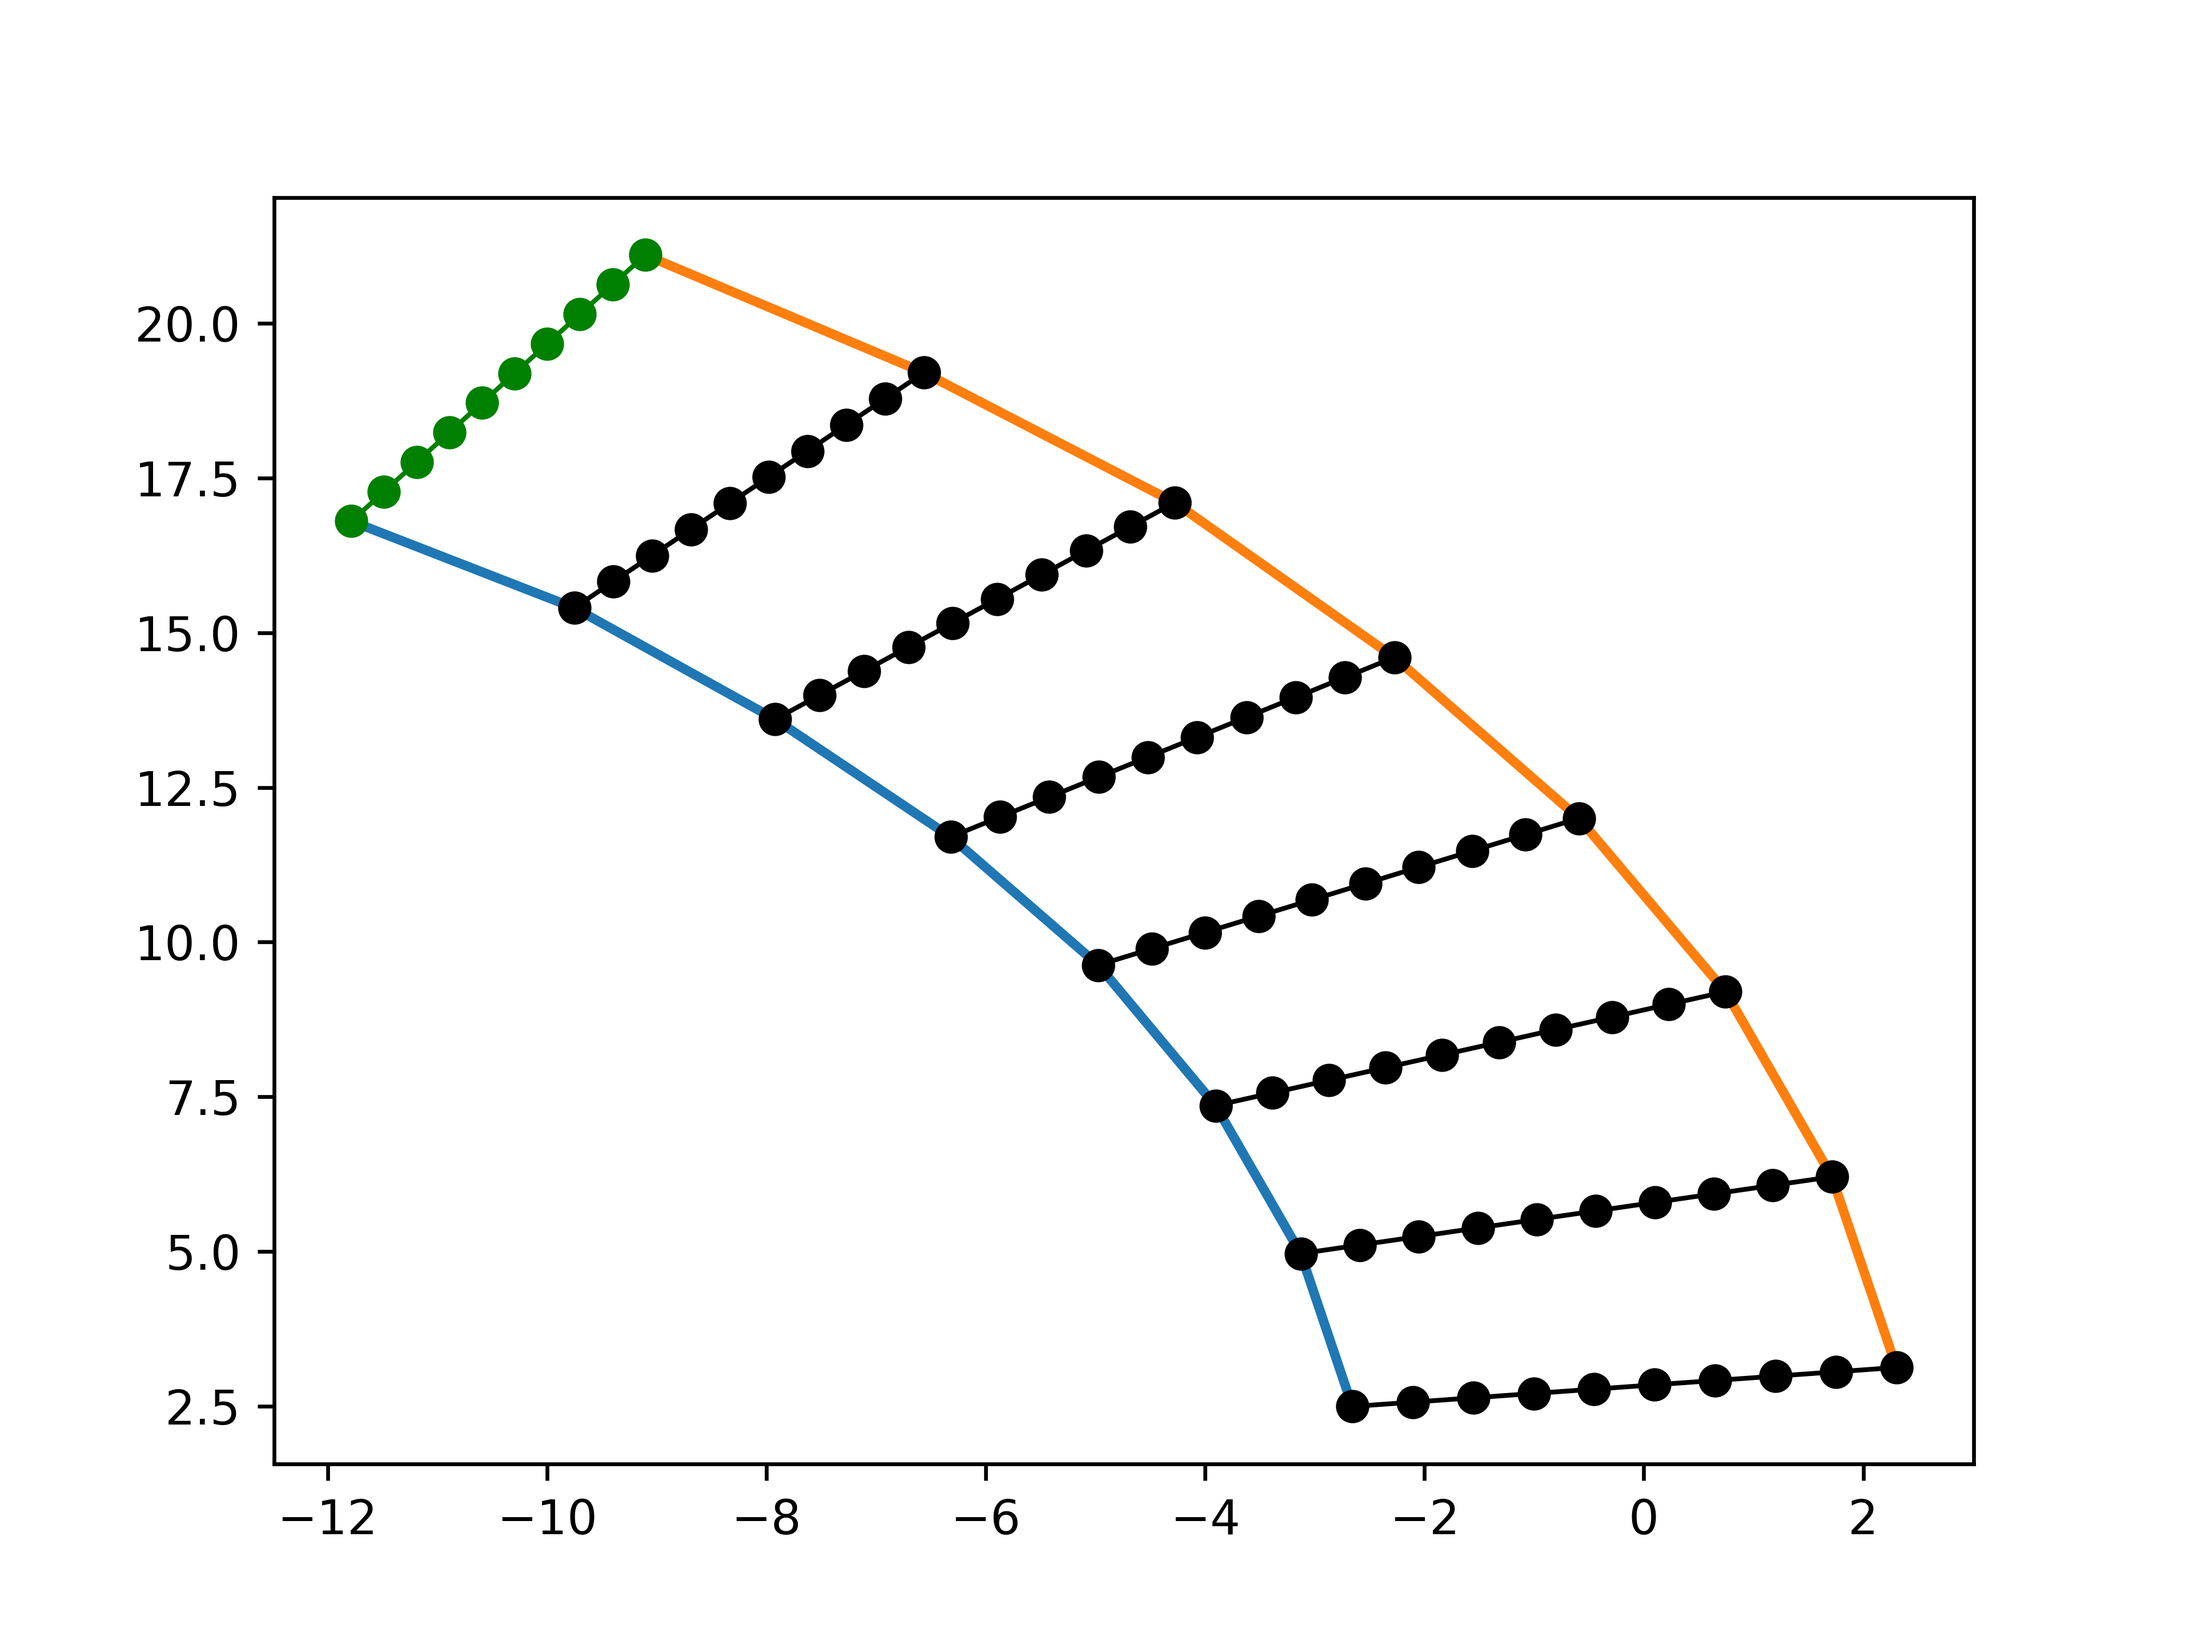
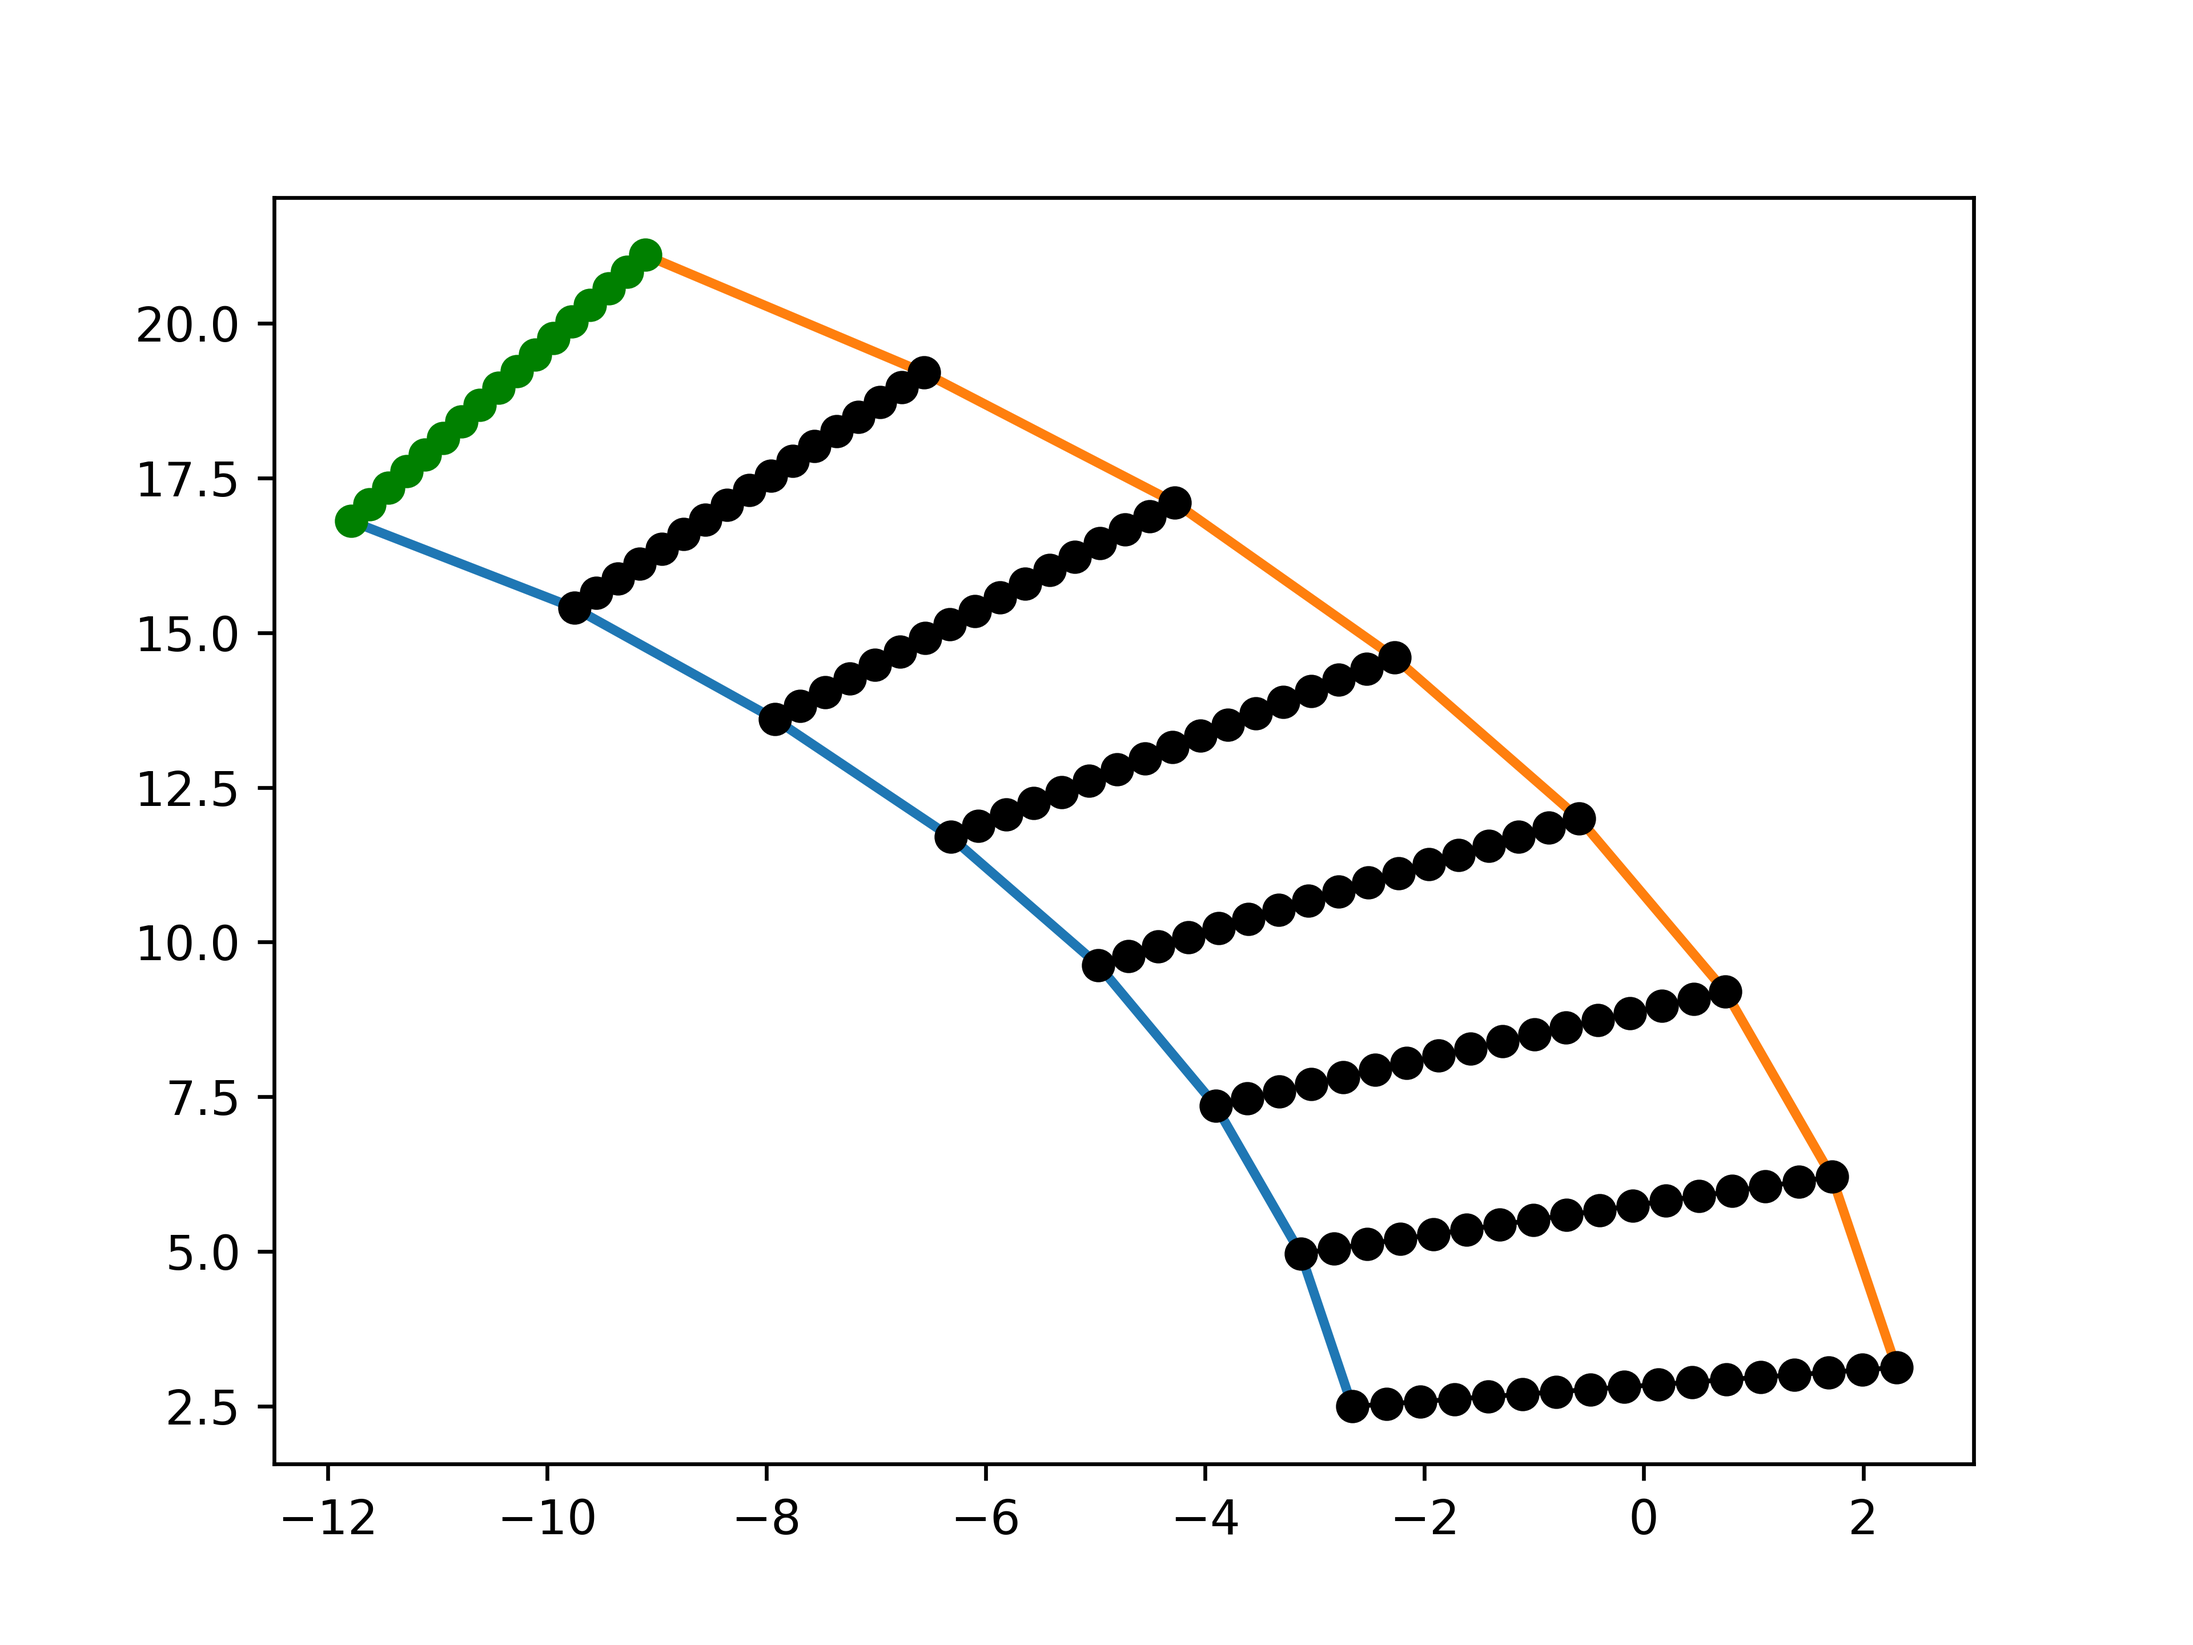
fixing new path planning

diff --git a/src/planning/path_planning/path_planning/shortest_path/main.py b/src/planning/path_planning/path_planning/shortest_path/main.py
@@ -3,7 +3,23 @@ def main():
     # imports 
     # import CoreModels
     # import PathHelpers
-    import planning.path_planning.path_planning.shortest_path.TrackMethods as TrackMethods
+    from path_planning.shortest_path.CoreModels import Node, State
+    import path_planning.shortest_path.TrackMethods as TrackMethods
+    import path_planning.shortest_path.TrackHelpers as TrackHelpers
+    import path_planning.shortest_path.PathHelpers as PathHelpers
+
+    import numpy as np
+
+    CAR = {
+        "mass": 200.0,  # kg
+        "μ": 0.9, # static friction coefficient - dimensionless
+        "α": PathHelpers.noughtTo60(2.1), 
+        "α_d": 39.0,
+        "max steer angle": 16.0,    # degrees
+        "max velocity": 80.0,  # m/s
+        "tire width": 18/39.37, # in m (18 inches here)
+        "wheelbase": 3.6,    # wheelbase length (m? - LIAM TO CONFIRM)
+    }
 
     # choose track
     track_name = "Silverstone"
@@ -17,18 +33,33 @@ def main():
 
     # create brackets
     print("CREATING BRACKETS")
-    brackets = TrackMethods.getBrackets(df, 10)
-
-    velocity_range = [0.01, 8, 16, 24, 32, 40 ]# velocities in meters per second
+    brackets = TrackMethods.getBrackets(df, 4, False)
 
     print("COMPUTING OPTIMAL PATH")
-    start_node = brackets[0]._nodeList[5]
-    start_node._cost = 0
-    print("starting inner distance: ",start_node._innerDistance)
-    print("starting outer distance: ", start_node._outerDistance)
     # mass = 50.0
     # μ = 0.7
-    start_node = TrackMethods.belman_ford_path(df, velocity_range, brackets, start_node, track_name)
+    start_node = brackets[0]._nodeList[0]
+    start_node._stateList.append(State(start_node, [np.cos(0), np.sin(0)], 0.0))
+    print("starting inner distance: ",start_node._innerDistance)
+    print("starting outer distance: ", start_node._outerDistance)
+    # start_node = TrackMethods.belman_ford_path(df, velocity_range, brackets, start_node, plot=self._plot)
+    n_vel = 10
+    start_node, brackets, optimal_cost = TrackMethods.optimal_path(
+        "$track_name optimal", 
+        df, 
+        start_node, 
+        brackets, 
+        n_vel,
+        CAR["μ"], 
+        CAR["mass"], 
+        CAR["α"], 
+        CAR["α_d"], 
+        CAR["max steer angle"],
+        CAR["tire width"],
+        CAR["wheelbase"], 
+        CAR["max velocity"],
+        True
+    )
     # start_node = TrackMethods.optimise_path(track_name, df, brackets, start_node, mass, μ)
     print("\nOPTIMAL PATH COMPUTED")
 

diff --git a/src/planning/path_planning/path_planning/shortest_path/TrackMethods.py b/src/planning/path_planning/path_planning/shortest_path/TrackMethods.py
@@ -370,8 +370,9 @@ def optimal_path(track_name:str, df:pd.DataFrame, start_node:Node, brackets:np.a
                     node._stateList.append(state)
 
         for i in range(len(brackets)-1,0,-1):
-            tmp = rclpyNode("tmp")
-            tmp.get_logger().info(f"Bracket: {i}\n")
+            # tmp = rclpyNode("tmp")
+            # tmp.get_logger().info(f"Bracket: {i}\n")
+            print(f"Bracket: {i}\n")
             
             if i == 2: 
                 previous_node_list = [start_node];
@@ -427,11 +428,12 @@ def optimal_path(track_name:str, df:pd.DataFrame, start_node:Node, brackets:np.a
                                         current_state._nextState = next_node_state
 
                                 # non ideal state
-                                if min_va <= current_state._velocity <= min(traction_velocity, max_va, max_velocity):
-                                    traverse_time = ((2*distance_between_nodes)/(current_state._velocity+next_node_state._velocity)) + next_node_state._cost
-                                    if traverse_time < current_state._cost:
-                                        current_state._cost = traverse_time
-                                        current_state._nextState = next_node_state
+                                else: 
+                                    if min_va <= current_state._velocity <= min(traction_velocity, max_va, max_velocity):
+                                        traverse_time = ((2*distance_between_nodes)/(current_state._velocity+next_node_state._velocity)) + next_node_state._cost
+                                        if traverse_time < current_state._cost:
+                                            current_state._cost = traverse_time
+                                            current_state._nextState = next_node_state
 
                 # for state in current_node._stateList
                 #     if state._cost == Inf; deleteState!(state); end

diff --git a/src/planning/path_planning/path_planning/trajectory_shortest_path.py b/src/planning/path_planning/path_planning/trajectory_shortest_path.py
@@ -28,8 +28,8 @@ class shortest_path(NODE):
         self.declare_parameters(
             namespace='',
             parameters=[
-                ('plot', True),
-                ('save_track', True),
+                ('plot', False),
+                ('save_track', False),
             ]
         )
 
@@ -90,7 +90,7 @@ class shortest_path(NODE):
 
         # create brackets
         print("CREATING BRACKETS")
-        brackets = TrackMethods.getBrackets(df, 8, plot=self._plot)
+        brackets = TrackMethods.getBrackets(df, 10, plot=self._plot)
 
         # velocity_range = [0.01, 8, 16, 24, 32, 40]# velocities in meters per second
 
@@ -102,7 +102,8 @@ class shortest_path(NODE):
         print("starting outer distance: ", start_node._outerDistance)
         # start_node = TrackMethods.belman_ford_path(df, velocity_range, brackets, start_node, plot=self._plot)
         n_vel = 5
-        start_node, brackets, optimal_cost = TrackMethods.optimal_path(
+        start_node, brackets, optimal_cost = 
+    velocity_range = [0.01, 8, 16, 24, 32, 40 ]# velocities in meters per secondTrackMethods.optimal_path(
             "$track_name optimal", 
             df, 
             start_node, 
